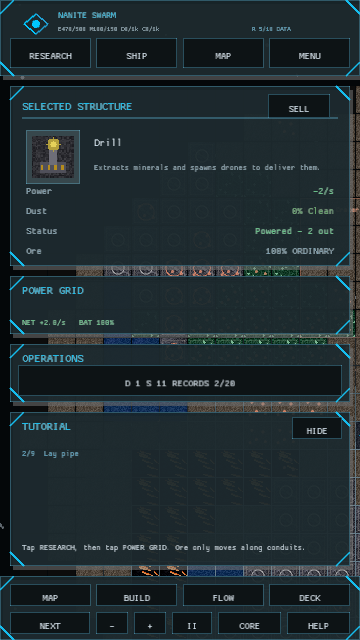
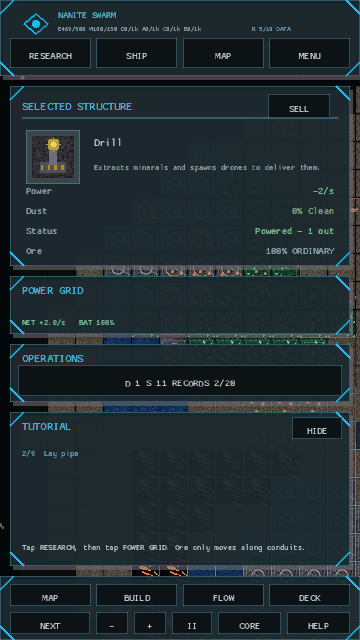
The swarm keeps every pool in view (mobile resource ledger, GDD 2)
The compact planetary header only persisted Energy, Minerals, Data, and Components, leaving Alloy and Biomass invisible while phone players managed factories and freight. Add responsive current/capacity readouts for all six resource pools, protect the status area at narrow widths, refresh the 360px verification captures, and document the affordance.

diff --git a/src/screens/planetary_view/hud/top_bar/mobile.rs b/src/screens/planetary_view/hud/top_bar/mobile.rs
@@ -10,7 +10,7 @@ use super::super::super::metrics::HudMetrics;
 use super::super::super::PlanetaryAction;
 use super::super::PanelColors;
 use super::{
-    compact_resource_readout, mobile_arrival_guidance_label, mobile_offline_work_label,
+    compact_resource_readout_for_screen, mobile_arrival_guidance_label, mobile_offline_work_label,
     mobile_research_status, mobile_status_text,
 };
 
@@ -32,13 +32,8 @@ pub(super) fn draw(
     draw_line(48.0, 24.0, 36.0, 34.0, 1.5, colors.primary_soft);
     draw_circle(36.0, 24.0, 4.0, colors.primary);
     draw_ui_text("NANITE SWARM", 58.0, 18.0, 11.0, colors.primary);
-    draw_ui_text(
-        &compact_resource_readout(state),
-        58.0,
-        31.0,
-        8.0,
-        colors.dim,
-    );
+    let (resource_readout, resource_size) = compact_resource_readout_for_screen(state, screen_w);
+    draw_ui_text(&resource_readout, 58.0, 31.0, resource_size, colors.dim);
     let (status, arrival_status) = mobile_status_text(
         state.save_failed,
         state.power_collapse_shutdown > 0.0,

diff --git a/src/screens/planetary_view/hud/top_bar.rs b/src/screens/planetary_view/hud/top_bar.rs
@@ -145,11 +145,22 @@ fn compact_resource_readout(state: &PlanetState) -> String {
         )
     };
     format!(
-        "E{} M{} D{} C{}",
+        "E{} M{} D{} A{} C{} B{}",
         compact(ResourceType::Energy),
         compact(ResourceType::Minerals),
         compact(ResourceType::Data),
-        compact(ResourceType::Components)
+        compact(ResourceType::Alloy),
+        compact(ResourceType::Components),
+        compact(ResourceType::Biomass)
+    )
+}
+
+fn compact_resource_readout_for_screen(state: &PlanetState, screen_w: f32) -> (String, f32) {
+    let font_size = if screen_w < 320.0 { 7.0 } else { 7.5 };
+    let available_width = (screen_w - 166.0).max(40.0);
+    (
+        truncate_text_to_width(&compact_resource_readout(state), available_width, font_size),
+        font_size,
     )
 }
 

diff --git a/src/screens/planetary_view/hud/top_bar/tests.rs b/src/screens/planetary_view/hud/top_bar/tests.rs
@@ -127,11 +127,13 @@ fn mobile_resource_readout_includes_storage_caps() {
     state.resources.energy = 50.0;
     state.resources.minerals = 25.0;
     state.resources.data = 1000.0;
+    state.resources.alloy = 75.0;
     state.resources.components = 40.0;
+    state.resources.biomass = 12.0;
 
     assert_eq!(
         compact_resource_readout(&state),
-        "E50/50 M25/100 D1k/1k C40/1k"
+        "E50/50 M25/100 D1k/1k A75/1k C40/1k B12/1k"
     );
 }
 

diff --git a/README.md b/README.md
@@ -214,6 +214,8 @@ MAP returns to the live grid between actions.
 The mobile gameplay header also keeps the active research job's DATA progress
 visible beneath the status line, including a warning colour while collapse
 recovery has research locked.
+Its compact resource line also keeps current/capacity readouts for all six
+resource pools visible, including Alloy and Biomass on 360px-class phones.
 Research uses a separate control row and full-width detail drawer on phones;
 drag the neural tree with a mouse or touch to pan it, then tap `-` / `+` to
 zoom;
